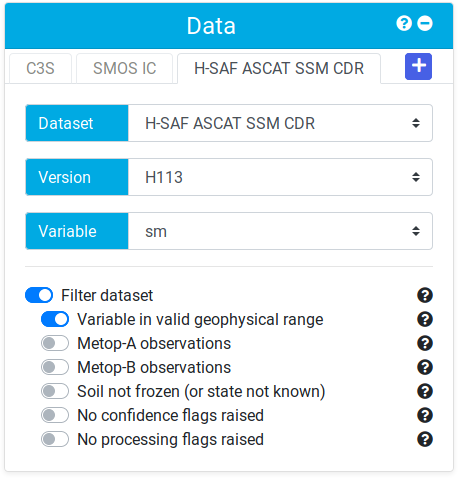
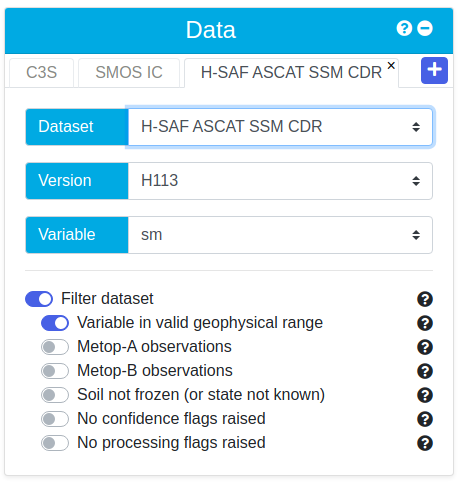
help page update done: - some screens updated to the current versions, - some text added, - networks fixture updated.

diff --git a/validator/templates/validator/help.html b/validator/templates/validator/help.html
@@ -49,7 +49,7 @@
     <p>
         <b>Step 3 [optional]</b> - If you want to intercompare several datasets, you can add more datasets to the validation
         using the <b>+</b> button, up to a maximum of five. Configure the settings for the additional datasets by selecting
-        the respective tab and repeating steps 1 and 2 above.<br/>
+        the respective tab and repeating steps 1 and 2 above. You can remove a dataset by clicking x on the active tab.<br/>
     </p>
     <p class="alert alert-info">
         <b>Intercomparison:</b> The intercomparison mode of QA4SM validates up to five satellite data sets against a common
@@ -71,7 +71,21 @@
     <p>
         <b>Step 5 [optional]</b> - Choose the criteria by which you would like to filter the reference data prior to
         running the validation. The filters available depend on the data contained within the chosen dataset. For example,
-        you can filter the ISMN data to include only data points where the soil_moisture_flag is &quot;G&quot; for &quot;good&quot;.
+        you can filter the ISMN data to include only data points where the soil_moisture_flag is &quot;G&quot; for &quot;good&quot;. You can also choose particular
+        networks and depth range at which the measurements have been done. To do that you have to open an appropriate window by clicking a 'select...'
+        link next to the filter you want to parameterised.
+    </p>
+    <img class="scaled_image mb-3" src="../../static/images/help/networks.png">
+    <p>
+        The window for choosing networks contains a list of continents. When clicking a continent name a list of networks that belong to the continent folds down.
+        Next to each network there is a name of the country that the network belongs to given. To toggle the particular network it is enough to click on its name.
+        The choice has to be approved clicking the 'Use networks' button.
+    </p>
+    <img class="scaled_image mb-3" src="../../static/images/help/depths.png">
+    <p>
+        The window for the depth selection contains two fields for introducing the depth range. Again, the choice has to be accepted clicking the 'Use depth range' button.
+        <br>
+        <br>
         Details of the filter options provided for each dataset are given on the supported datasets page
         <a href="{% url 'datasets' %}">here</a>. You can also hover your mouse pointer over the question mark next to a filter
         to get a short explanation.
@@ -98,9 +112,10 @@
     <img class="scaled_image mb-3" src="../../static/images/help/map_selection.png">
     <p>
         <b>Step 8 [optional]</b> - Choose the date range over which the validation should be performed. Accepted formats are: YYYY*MM*DD
-        or DD*MM*YYYY where * can be any of &quot;.&quot;, &quot;/&quot; or &quot;-&quot;. If you don't provide a period it will be
-        implicitly determined through temporal matching of the data and reference selected. For the time range covered by the various
-        datasets, see the <a href="{% url 'datasets' %}">datasets page</a>.
+        or DD*MM*YYYY where * can be any of &quot;.&quot;, &quot;/&quot; or &quot;-&quot;. It is also possible to choose a date from a calendar, available under the calendar button.
+        By default, the date range is determined through temporal matching of the data and reference selected.
+        If you leave validation period fields empty, the default date range will be used.  For the time range
+        covered by the various datasets, see the <a href="{% url 'datasets' %}">datasets page</a>.
     </p>
     <img class="scaled_image mb-3" src="../../static/images/help/validation_period.png">
 
@@ -127,8 +142,8 @@
     <img class="scaled_image mb-3" src="../../static/images/help/scaling.png">
 
     <p>
-        <b>Step 11</b> - Optionally name your validation results to make it easier to identify it in
-        the list of all your validations.
+        <b>Step 11 [optional]</b> - Name your validation results to make it easier to identify it in the list of all your validations.
+        Note that it is possible to change the name later, unless the validation has been published.
     </p>
     <img class="scaled_image mb-3" src="../../static/images/help/name_your_validation.png">
 
@@ -143,7 +158,9 @@
     <h1 id="help3" class="h3 mb-3 font-weight-normal">My Validations - Results List Page</h1>
 
     <p>
-        The list shows all your validations, including the currently running ones, sorted by date (latest first).
+        The list shows all your validations, including the currently running ones, sorted by default by date (latest first).
+        It is possible to sort the list according to the validation name, date, status and the dataset used as the reference.
+        Apart from the validations run by the particular user, there can be also listed published validations that are tracked by the user.
     </p>
 
     <img class="scaled_image mb-3" src="../../static/images/help/my_validations.png">
@@ -196,7 +213,8 @@
             </li>
             <li>
                 <span class="fas fa-times"></span> The remove button is only visible once the validation has finished
-                or was aborted and will permanently delete the result.
+                or was aborted and will permanently delete the result. The remove button next to a validation being track,
+                only removes the validation from this list, but not deletes it.
             </li>
             <li>
                 <span class="fas fa-download"></span> The download graphs button allows you to download all graphs
@@ -222,9 +240,13 @@
             auto-cleanup again. It will be automatically extended, so you will have another {{ expiry_period }} days before
             deletion and will be notified (again).
         </li>
+        <li>
+            <span class="fas fa-redo"></span> With this button you can load settings of the particular validations; you will be redirected
+            to the validate page.
+        </li>
         </ul>
     </p>
-    <img class="scaled_image mb-3" src="../../static/images/help/my_validations.png">
+<!--    <img class="scaled_image mb-3" src="../../static/images/help/my_validations.png">-->
 
     <a id="results"></a>
     <h1 class="h3 mb-3 font-weight-normal">Validation Results Page</h1>
